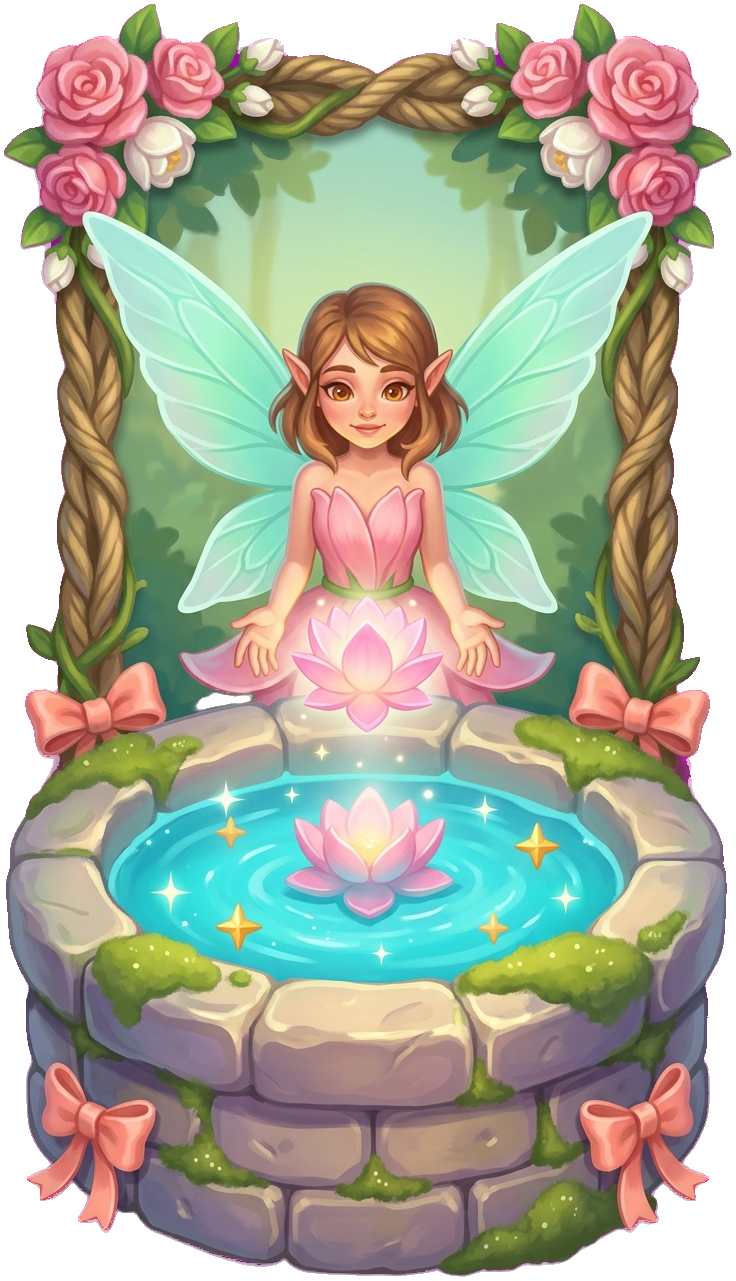
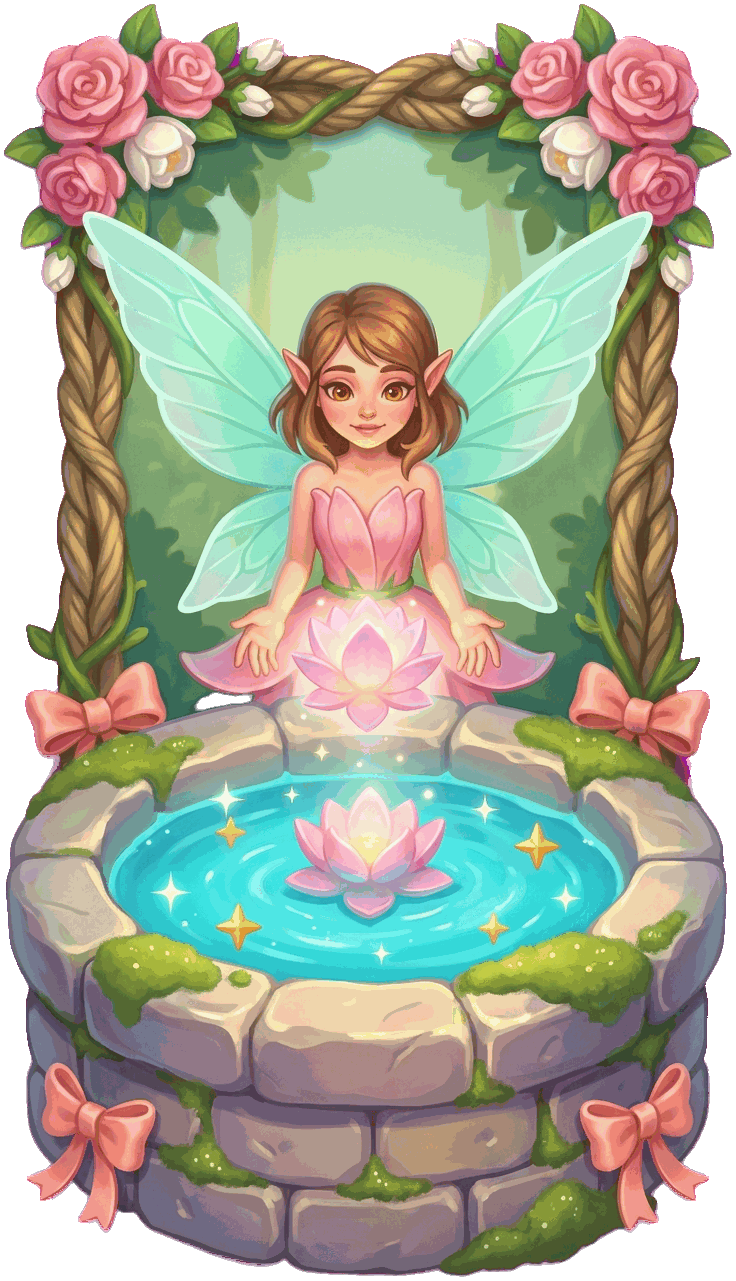
chore: 压缩许愿池与每日挑战 panels UI 图
- 新增 compress_flower_sign_pngs.py、compress_subpkg_panels_ui_pngs.py
- 许愿喷泉立绘/大地图喷泉 thumb/硬币图标与 daily_challenge_* 面板切图量化缩小体积

Made-with: Cursor

diff --git a/scripts/compress_subpkg_panels_ui_pngs.py b/scripts/compress_subpkg_panels_ui_pngs.py
@@ -1,0 +1,139 @@
+#!/usr/bin/env python3
+"""
+压缩 minigame/subpkg_panels/images/ui 下 PNG（全屏面板、条带等），控制分包体积。
+
+默认只处理 daily_challenge*.png；与棋盘物品脚本类似：
+- 最长边上限 MAX_SIDE（默认 1024，不足不放大）
+- RGBA → 256 色 FASTOCTREE + Floyd–Steinberg，zlib 9 + optimize
+- 中间文件写入系统临时目录（避免微信开发者工具缓存 ENOENT）
+
+用法（仓库根）:
+  python3 scripts/compress_subpkg_panels_ui_pngs.py
+  python3 scripts/compress_subpkg_panels_ui_pngs.py --dry-run
+  python3 scripts/compress_subpkg_panels_ui_pngs.py --all-ui --dry-run   # 整个 ui 目录
+  python3 scripts/compress_subpkg_panels_ui_pngs.py --max-side 900 path/to/a.png
+"""
+from __future__ import annotations
+
+import argparse
+import os
+import shutil
+import sys
+import tempfile
+from pathlib import Path
+
+from PIL import Image
+
+REPO = Path(__file__).resolve().parents[1]
+ROOT = REPO / "minigame" / "subpkg_panels" / "images" / "ui"
+
+
+def shrink_max_side(im: Image.Image, max_side: int) -> Image.Image:
+    im = im.convert("RGBA")
+    w, h = im.size
+    m = max(w, h)
+    if m <= max_side:
+        return im
+    s = max_side / m
+    nw = max(1, int(round(w * s)))
+    nh = max(1, int(round(h * s)))
+    return im.resize((nw, nh), Image.Resampling.LANCZOS)
+
+
+def compress_one(path: Path, max_side: int, colors: int, dry_run: bool) -> tuple[int, int, bool]:
+    old = path.stat().st_size
+    try:
+        im = Image.open(path)
+        im.load()
+    except Exception as e:
+        print(f"SKIP open {path.relative_to(REPO)}: {e}", file=sys.stderr)
+        return old, old, False
+
+    im = shrink_max_side(im, max_side)
+    q = im.quantize(
+        colors=colors,
+        method=Image.Quantize.FASTOCTREE,
+        dither=Image.Dither.FLOYDSTEINBERG,
+    )
+
+    fd, tmp = tempfile.mkstemp(suffix=".png")
+    os.close(fd)
+    try:
+        q.save(tmp, "PNG", optimize=True, compress_level=9)
+        new = os.path.getsize(tmp)
+        if new >= old:
+            os.unlink(tmp)
+            return old, old, False
+        if not dry_run:
+            shutil.move(tmp, str(path))
+            tmp = ""
+        else:
+            os.unlink(tmp)
+            tmp = ""
+        return old, new, True
+    except Exception as e:
+        if tmp and os.path.exists(tmp):
+            os.unlink(tmp)
+        print(f"SKIP save {path.relative_to(REPO)}: {e}", file=sys.stderr)
+        return old, old, False
+
+
+def main() -> int:
+    ap = argparse.ArgumentParser()
+    ap.add_argument("--max-side", type=int, default=1024, help="最长边像素上限（默认 1024）")
+    ap.add_argument("--colors", type=int, default=256)
+    ap.add_argument("--dry-run", action="store_true")
+    ap.add_argument(
+        "--all-ui",
+        action="store_true",
+        help="处理 ui 目录下全部 PNG（默认仅 daily_challenge*.png）",
+    )
+    ap.add_argument(
+        "paths",
+        nargs="*",
+        type=Path,
+        help="可选：仅处理指定文件",
+    )
+    args = ap.parse_args()
+
+    if args.paths:
+        pngs = []
+        for p in args.paths:
+            p = p.resolve()
+            if not p.is_file():
+                print(f"Not a file: {p}", file=sys.stderr)
+                return 1
+            pngs.append(p)
+    else:
+        if not ROOT.is_dir():
+            print(f"Not a directory: {ROOT}", file=sys.stderr)
+            return 1
+        pngs = sorted(p for p in ROOT.rglob("*.png") if p.is_file())
+        if not args.all_ui:
+            pngs = [p for p in pngs if p.name.startswith("daily_challenge")]
+
+    total_old = sum(p.stat().st_size for p in pngs)
+    changed = 0
+    saved = 0
+
+    for p in pngs:
+        o, n, ch = compress_one(p, args.max_side, args.colors, args.dry_run)
+        if ch:
+            changed += 1
+            saved += o - n
+            rel = p.relative_to(REPO)
+            pct = 100 * (1 - n / o)
+            tag = "would shrink" if args.dry_run else "shrunk"
+            print(f"{tag} {rel}: {o} -> {n} ({pct:.1f}% saved)")
+
+    total_new = total_old - saved
+    print(f"Files: {len(pngs)}")
+    print(f"Updated: {changed}" + (" (dry-run)" if args.dry_run else ""))
+    print(f"Total before: {total_old / 1024:.1f} KiB")
+    print(f"Total after:  {total_new / 1024:.1f} KiB")
+    print(f"Saved:        {saved / 1024:.1f} KiB")
+    return 0
+
+
+if __name__ == "__main__":
+    raise SystemExit(main())

diff --git a/scripts/compress_flower_sign_pngs.py b/scripts/compress_flower_sign_pngs.py
@@ -1,0 +1,113 @@
+#!/usr/bin/env python3
+"""
+许愿池 / 大地图喷泉相关 PNG 压体积（Pillow，与 items 脚本同思路）。
+
+- 全屏立绘 flower_sign_gacha_scene_nb2：保持分辨率（已与设计宽接近），256 色 FASTOCTREE + Floyd–Steinberg
+- 大地图双帧 thumb：最长边 288（屏上约 150px，2× 余量），再 256 色量化
+- 主包 icon_flower_sign_coin：最长边 128，256 色量化
+
+写入前用系统临时文件，避免微信开发者工具缓存 minigame 内 tmp 路径。
+
+用法（仓库根）:
+  python3 scripts/compress_flower_sign_pngs.py
+  python3 scripts/compress_flower_sign_pngs.py --dry-run
+"""
+from __future__ import annotations
+
+import argparse
+import os
+import shutil
+import sys
+import tempfile
+from pathlib import Path
+
+from PIL import Image
+
+REPO = Path(__file__).resolve().parents[1]
+
+# (相对 REPO, max_side: 0 表示不缩放只量化)
+TARGETS: list[tuple[str, int]] = [
+    ("minigame/subpkg_panels/images/ui/flower_sign_gacha_scene_nb2.png", 0),
+    ("minigame/subpkg_panels/images/ui/worldmap_thumb_wishing_fountain_1.png", 288),
+    ("minigame/subpkg_panels/images/ui/worldmap_thumb_wishing_fountain_2.png", 288),
+    ("minigame/images/ui/icon_flower_sign_coin.png", 128),
+]
+
+
+def shrink_max_side(im: Image.Image, max_side: int) -> Image.Image:
+    im = im.convert("RGBA")
+    w, h = im.size
+    m = max(w, h)
+    if m <= max_side:
+        return im
+    s = max_side / m
+    nw = max(1, int(round(w * s)))
+    nh = max(1, int(round(h * s)))
+    return im.resize((nw, nh), Image.Resampling.LANCZOS)
+
+
+def compress_one(rel: str, max_side: int, colors: int, dry_run: bool) -> bool:
+    path = REPO / rel
+    if not path.is_file():
+        print(f"SKIP missing: {rel}", file=sys.stderr)
+        return False
+    old = path.stat().st_size
+    try:
+        im = Image.open(path)
+        im.load()
+    except Exception as e:
+        print(f"SKIP open {rel}: {e}", file=sys.stderr)
+        return False
+
+    if max_side > 0:
+        im = shrink_max_side(im, max_side)
+    else:
+        im = im.convert("RGBA")
+
+    q = im.quantize(
+        colors=colors,
+        method=Image.Quantize.FASTOCTREE,
+        dither=Image.Dither.FLOYDSTEINBERG,
+    )
+
+    fd, tmp = tempfile.mkstemp(suffix=".png")
+    os.close(fd)
+    try:
+        q.save(tmp, "PNG", optimize=True, compress_level=9)
+        new = os.path.getsize(tmp)
+        if new >= old:
+            os.unlink(tmp)
+            print(f"SKIP {rel}: output not smaller ({old // 1024}KB)")
+            return False
+        if dry_run:
+            os.unlink(tmp)
+            print(f"[dry-run] {rel}: {old // 1024}KB -> {new // 1024}KB")
+            return True
+        shutil.move(tmp, str(path))
+        print(f"OK {rel}: {old // 1024}KB -> {new // 1024}KB")
+        return True
+    except Exception as e:
+        if os.path.exists(tmp):
+            os.unlink(tmp)
+        print(f"SKIP save {rel}: {e}", file=sys.stderr)
+        return False
+
+
+def main() -> None:
+    ap = argparse.ArgumentParser()
+    ap.add_argument("--colors", type=int, default=256)
+    ap.add_argument("--dry-run", action="store_true")
+    args = ap.parse_args()
+
+    ok_n = 0
+    for rel, mx in TARGETS:
+        if compress_one(rel, mx, args.colors, args.dry_run):
+            ok_n += 1
+    if args.dry_run:
+        print(f"[dry-run] would update {ok_n} file(s)")
+    elif ok_n:
+        print(f"Done: {ok_n} file(s)")
+
+
+if __name__ == "__main__":
+    main()
